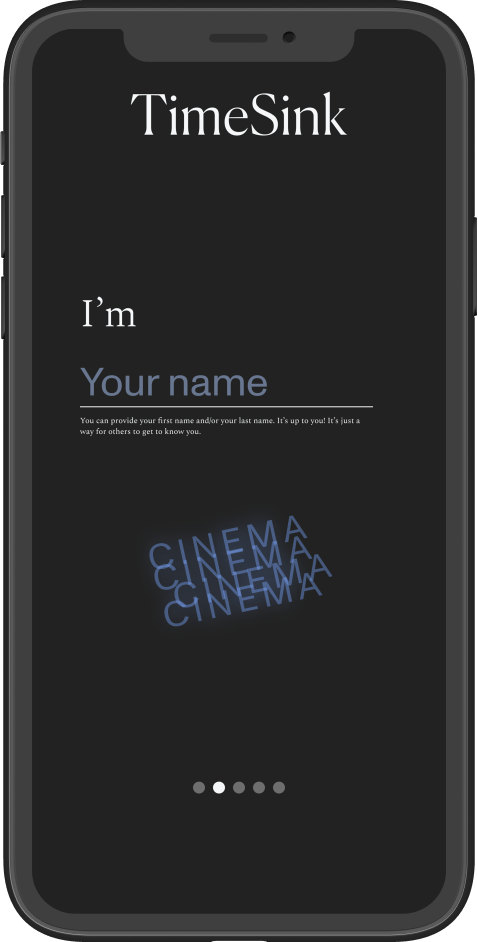
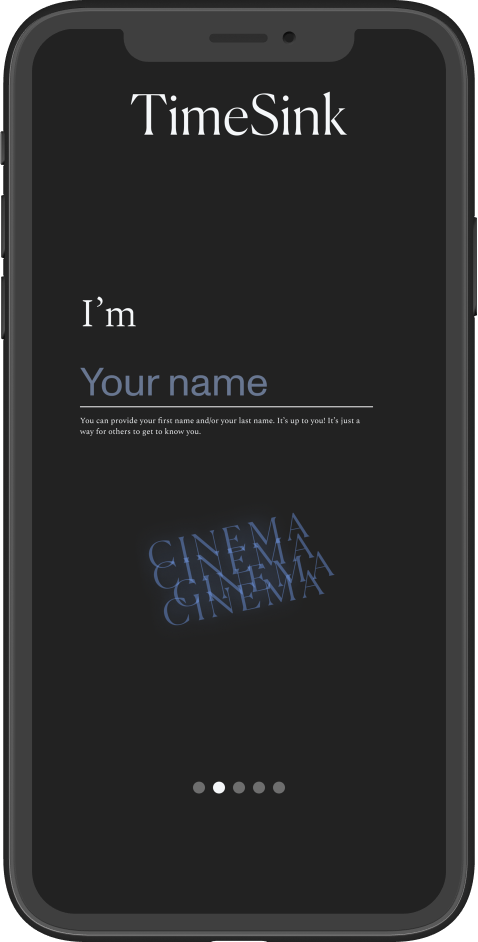
canela onboarding

Changed region(s): [[0.3222, 0.5541, 0.7029, 0.6773]]

diff --git a/timesink.html b/timesink.html
@@ -12,7 +12,7 @@ title: timesink
  <p>a film platform dedicated to presenting films made by current artists and attracting audiences, critics, and investors</p>
    </div>
    <div class="timesink_cover_mockup">
-     <img src="/assets/img/timesink2mockup.png" style="width:480px;height:360px;">
+     <img src="/assets/img/timesink3mockup.png" style="width:480px;height:360px;">
    </div>
 </section>
 
